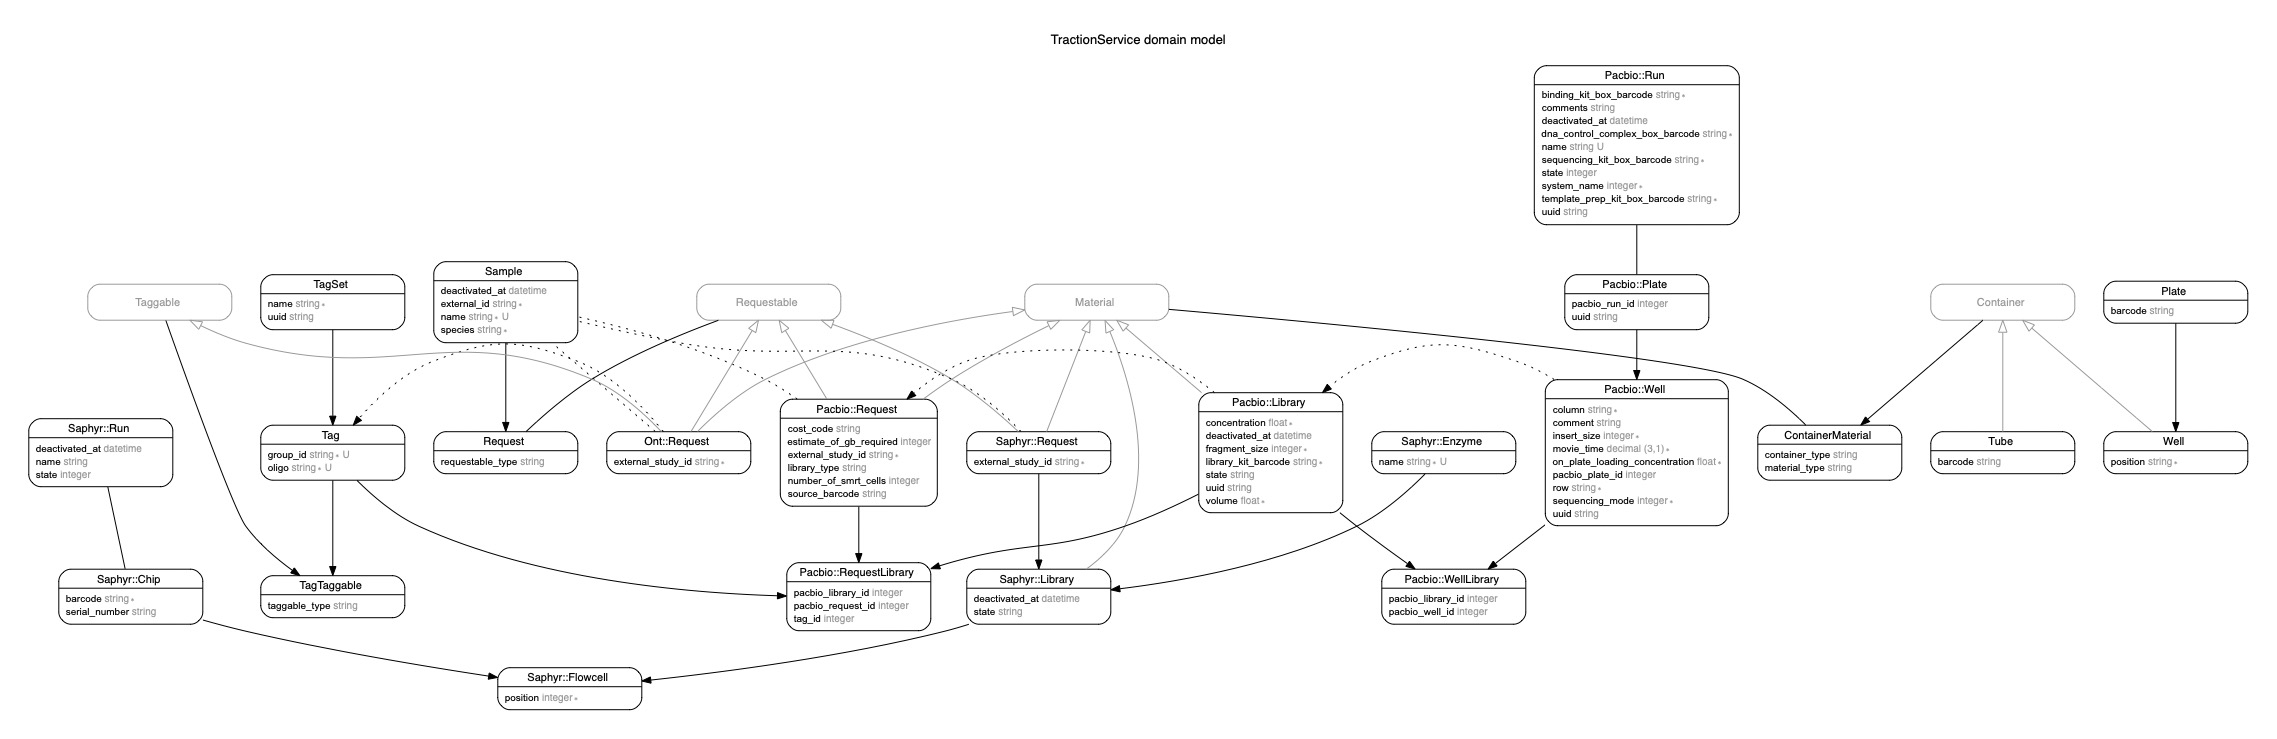
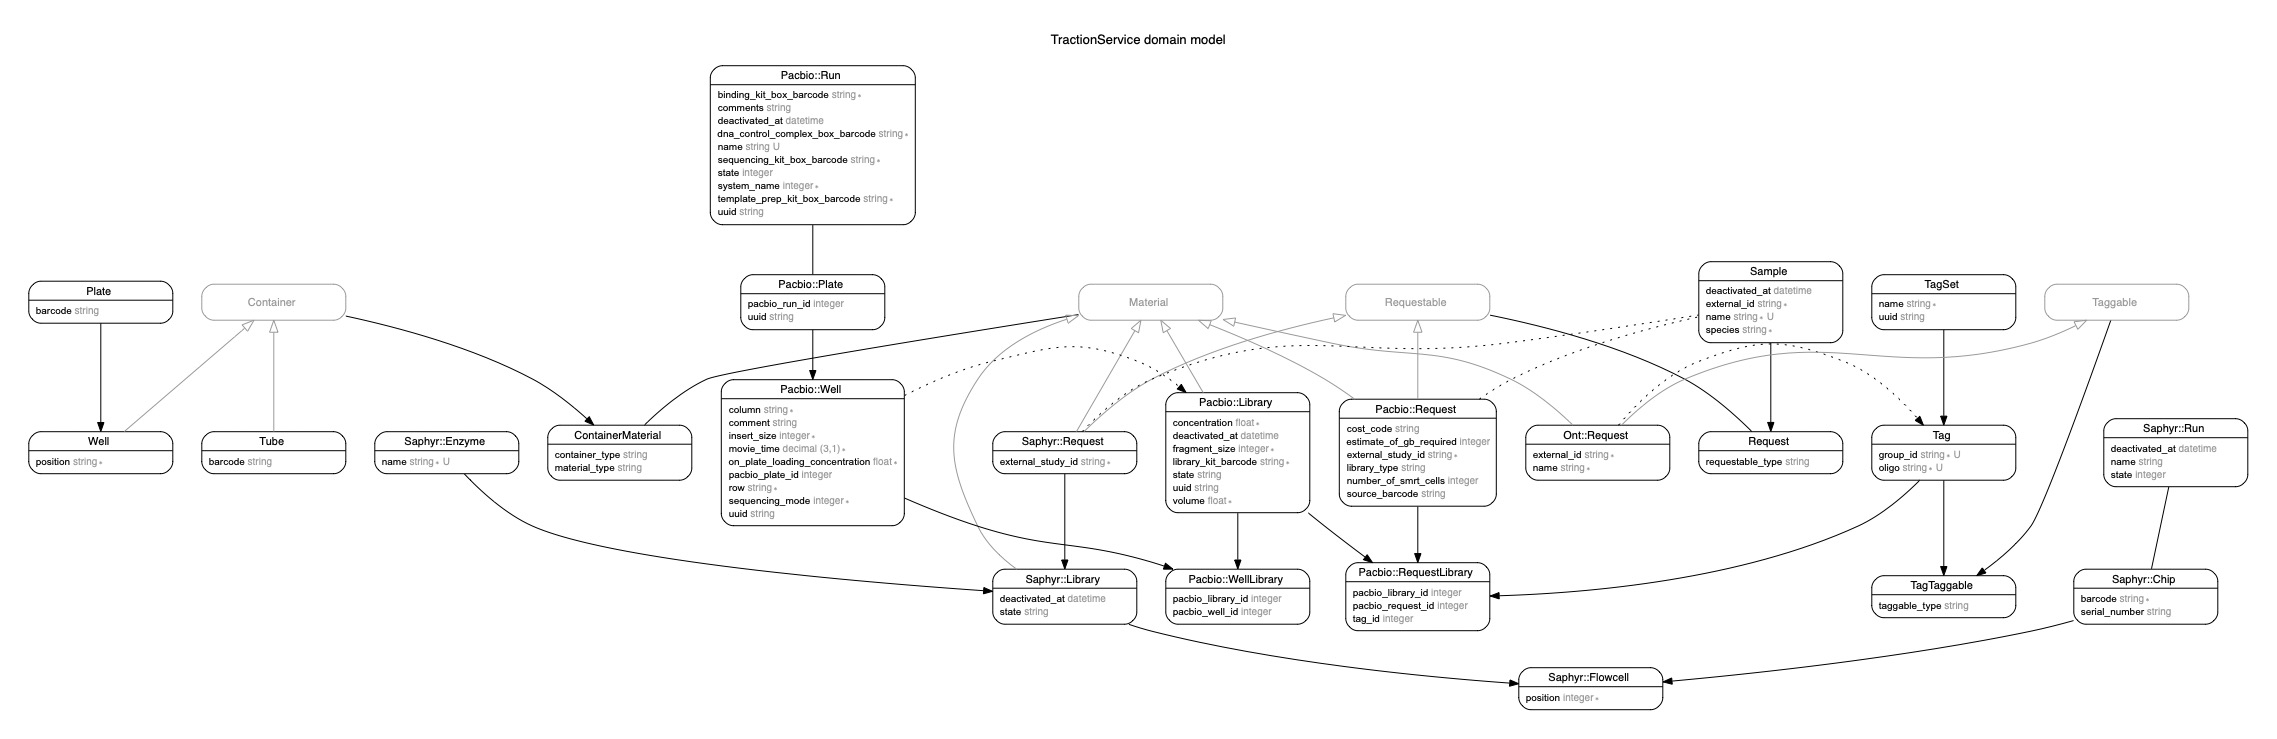
Add migration to update ont_requests table. Remove relationship from Ont::Request to Sample

diff --git a/db/schema.rb b/db/schema.rb
@@ -10,7 +10,7 @@
 #
 # It's strongly recommended that you check this file into your version control system.
 
-ActiveRecord::Schema.define(version: 2020_05_06_214419) do
+ActiveRecord::Schema.define(version: 2020_05_11_095257) do
 
   create_table "container_materials", force: :cascade do |t|
     t.string "container_type"
@@ -24,9 +24,10 @@ ActiveRecord::Schema.define(version: 2020_05_06_214419) do
   end
 
   create_table "ont_requests", force: :cascade do |t|
-    t.string "external_study_id"
     t.datetime "created_at", precision: 6, null: false
     t.datetime "updated_at", precision: 6, null: false
+    t.string "name"
+    t.string "external_id"
   end
 
   create_table "pacbio_libraries", force: :cascade do |t|

diff --git a/app/models/ont/request.rb b/app/models/ont/request.rb
@@ -6,12 +6,6 @@ module Ont
     include Material
     include Taggable
 
-    has_one :request, class_name: '::Request', as: :requestable, dependent: :nullify
-    has_one :sample, through: :request
-
-    validates :external_study_id, presence: true
-
-    delegate :name, to: :sample, prefix: :sample
-    delegate :species, to: :sample, prefix: :sample
+    validates :name, :external_id, presence: true
   end
 end

diff --git a/db/migrate/20200511095257_update_ont_request.rb b/db/migrate/20200511095257_update_ont_request.rb
@@ -1,0 +1,7 @@
+class UpdateOntRequest < ActiveRecord::Migration[6.0]
+  def change
+    remove_column :ont_requests, :external_study_id, :string
+    add_column :ont_requests, :name, :string
+    add_column :ont_requests, :external_id, :string
+  end
+end
